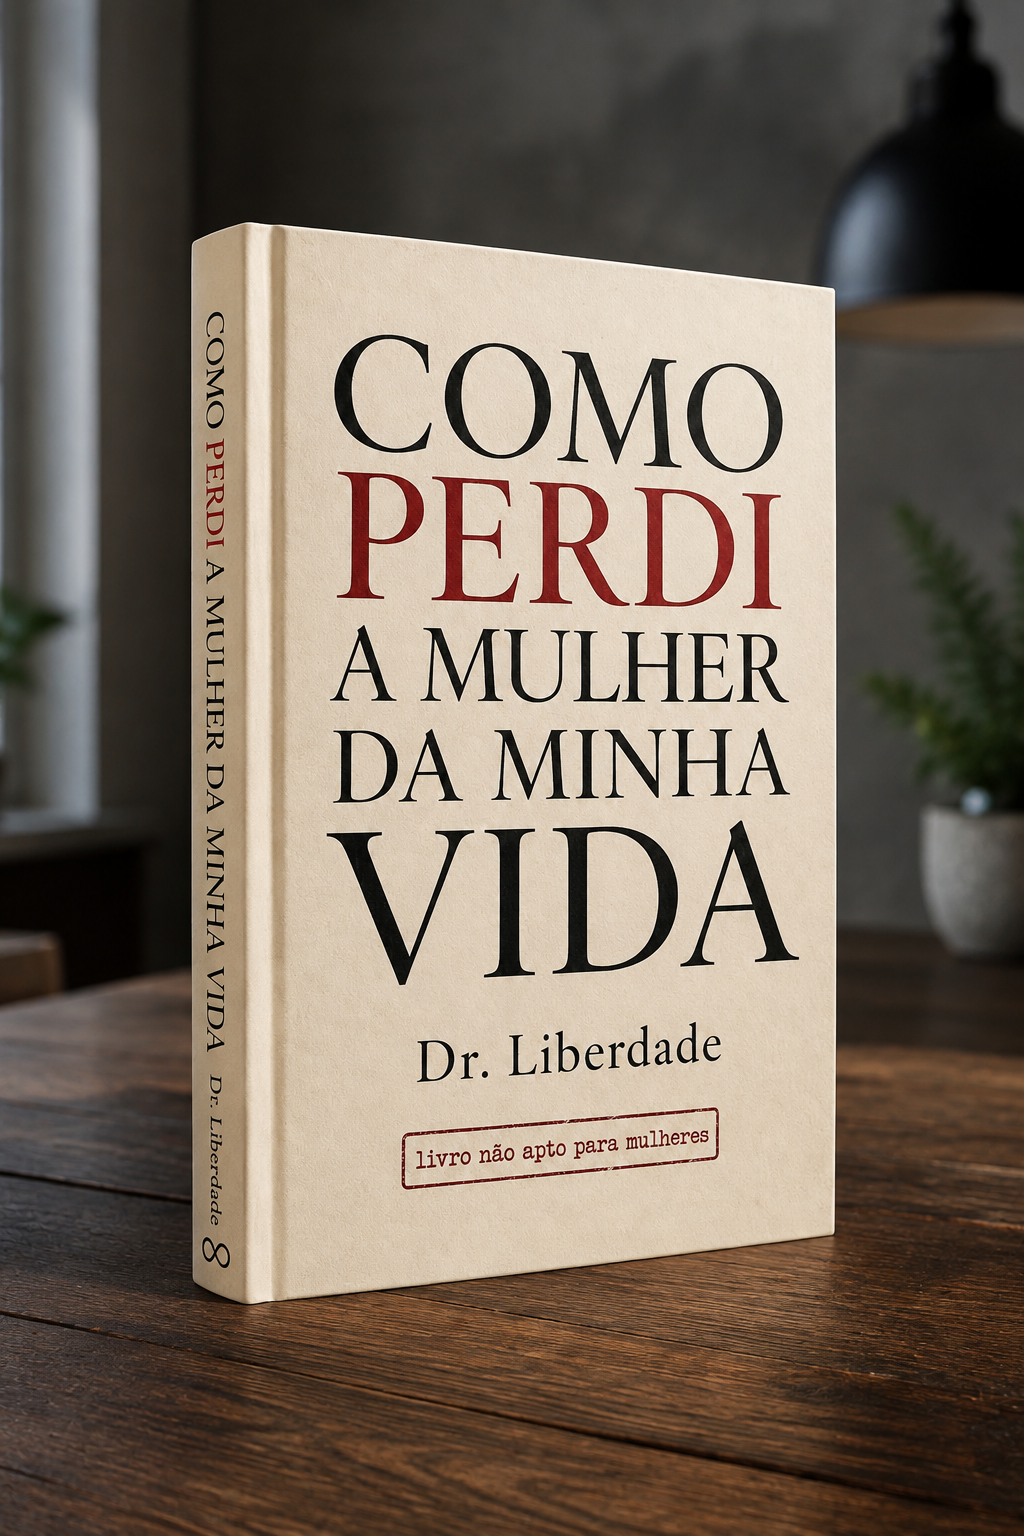
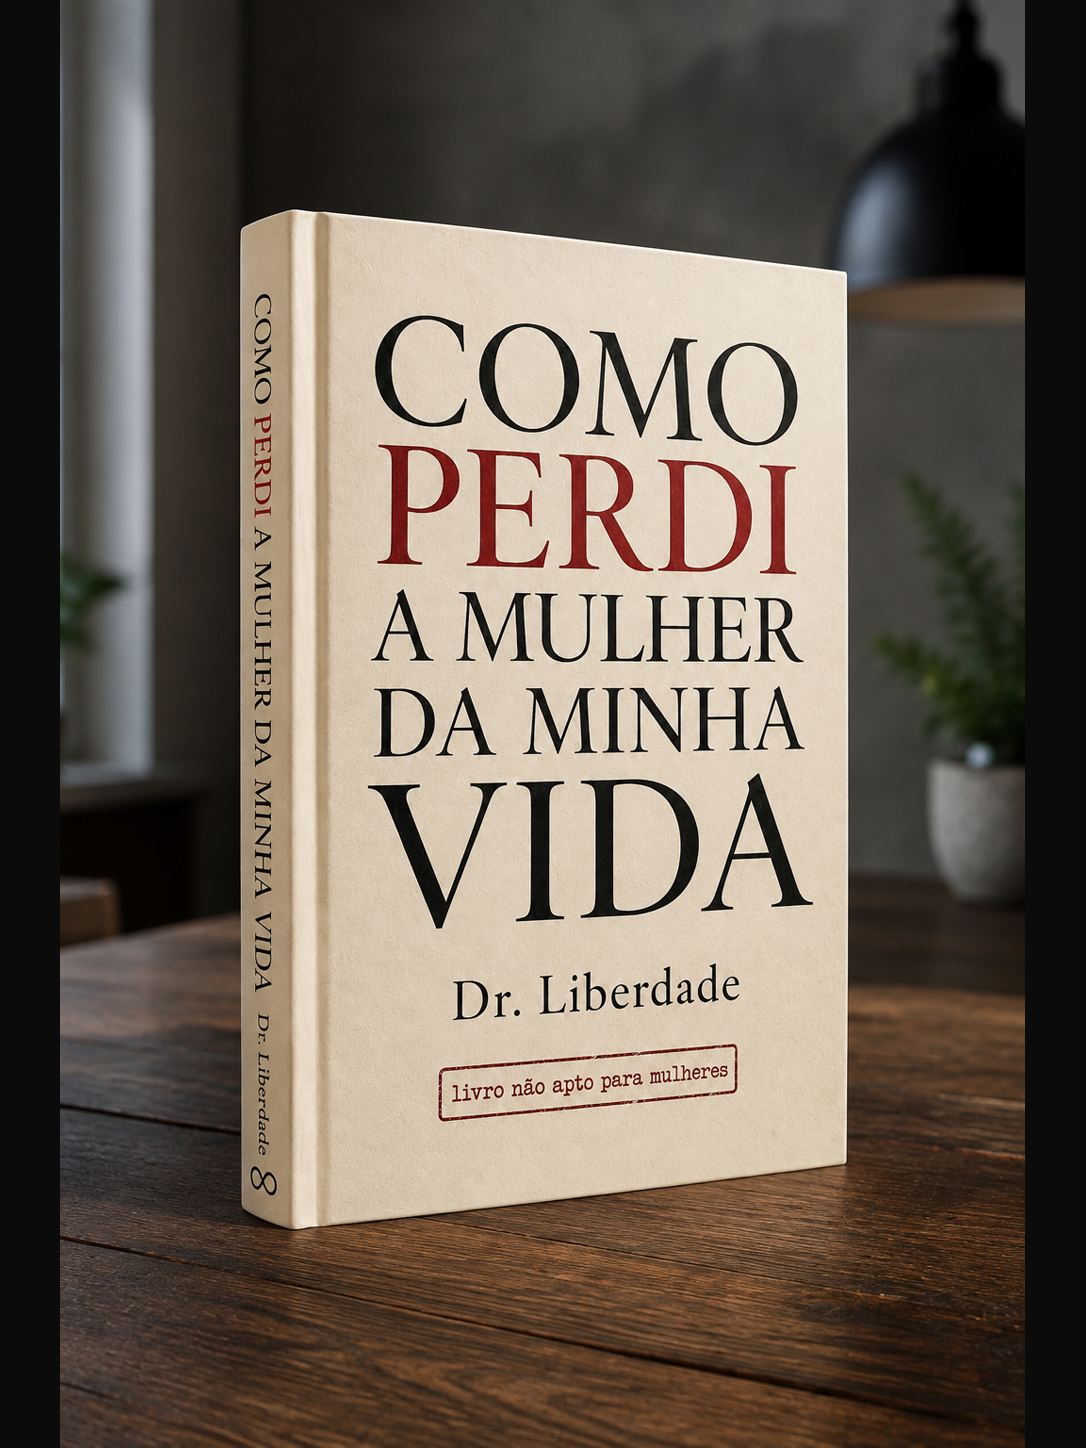
fix(livros): padroniza o tamanho das 3 capas na vitrine /livros
Dono: "padronize o tamanho das imagens dentro da pagina inicial dos
livros, estão de tamanhos diferentes". Causa real: as 3 capas nascem
em proporções DIFERENTES no arquivo (dopamina 1086×1448 = 3:4; tolos
825×1024 = 0,81; como-perdi 1024×1536 = 0,67) — na mesma moldura 3:4
do card (fix de hoje mais cedo, capa pequena no celular), a arte
visível de cada livro saía num tamanho diferente mesmo com a moldura
igual: dopamina preenchia tudo, tolos sobrava vazio em cima/embaixo,
como-perdi sobrava vazio nos lados.

Corrigido na origem: tolos e como-perdi ganharam moldura sólida (cor
#0B0B0C, a mesma do fundo do site) até virarem 1086×1448 — a mesma
proporção e a mesma medida exata de dopamina, que já nascia certa.
Nenhuma arte foi cortada nem esticada; só ganhou uma margem que se
mistura no fundo escuro da página. `coverListSize` em books.ts
atualizado para as 2 capas que mudaram de arquivo.

Conferido no navegador: as 3 imagens renderizam EXATAMENTE no mesmo
tamanho (310×413 em desktop 1440px) — antes divergiam. tsc, eslint e
build limpos.

diff --git a/src/lib/books.ts b/src/lib/books.ts
@@ -104,8 +104,15 @@ export const BOOKS: BookMeta[] = [
     // reusa a mesma imagem até a versão espanhola ser produzida.
     cover: { br: "/images/tolos-capa-br-01.jpg", es: "/images/tolos-capa-br-01.jpg" },
     coverList: { br: "/images/tolos-capa-pt.jpg", es: "/images/tolos-capa-pt.jpg" },
-    // 825×1024 é a medida real das duas capas (verificada no arquivo).
+    // 825×1024 é a medida real da capa da PÁGINA (arte original, sem moldura).
     coverSize: { width: 825, height: 1024 },
+    // A capa da VITRINE ganhou moldura sólida (mesma cor de fundo do site,
+    // `#0B0B0C`) até virar 1086×1448 — dono 23/08: "padronize o tamanho das
+    // imagens... estão de tamanhos diferentes" (as 3 capas tinham proporção
+    // própria; na mesma moldura 3:4 do card, a arte visível saía menor ou
+    // maior conforme o livro). 1086×1448 é a proporção exata de "I Love
+    // Dopamina", que já nascia em 3:4 — as outras duas foram encaixadas nela.
+    coverListSize: { width: 1086, height: 1448 },
     preSale: true,
     // Pré-lançamento (mesmo valor da pré-venda de dopamina: R$ 29,90 / US$ 5,90 —
     // o dono decide o valor exato ao publicar).
@@ -119,12 +126,14 @@ export const BOOKS: BookMeta[] = [
     slug: "como-perdi-a-mulher-da-minha-vida",
     dictKey: "perdi",
     // Nomes definitivos do dono (23/08): "Imagem-Pagina-livro" = capa da PÁGINA
-    // do livro; "Imagem-Livros" = capa da VITRINE /livros. Proporções REAIS
-    // diferentes (1086×1448 × 1024×1536) — por isso `coverListSize` abaixo.
+    // do livro; "Imagem-Livros" = capa da VITRINE /livros.
     cover: { br: "/images/como-perdi-capa-br-01.png", es: "/images/como-perdi-capa-br-01.png" },
     coverList: { br: "/images/como-perdi-capa-pt.png", es: "/images/como-perdi-capa-pt.png" },
     coverSize: { width: 1086, height: 1448 },
-    coverListSize: { width: 1024, height: 1536 },
+    // A capa da VITRINE (proporção original 1024×1536, mais estreita que as
+    // outras duas) ganhou moldura sólida lateral até virar 1086×1448 — mesma
+    // correção e mesmo motivo do Tolos, acima.
+    coverListSize: { width: 1086, height: 1448 },
     preSale: true,
     underReview: true,
     // ES US$ 9,99 (ordem do dono 23/08). BR = conversão literal ao câmbio do dia
